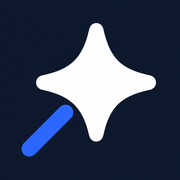
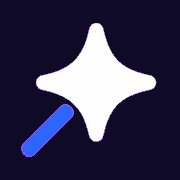
Work in progress

diff --git a/src/styles.css b/src/styles.css
@@ -20,6 +20,7 @@
   --color-popover-foreground: var(--popover-foreground);
   --color-primary: var(--primary);
   --color-primary-foreground: var(--primary-foreground);
+  --color-primary-soft: var(--primary-soft);
   --color-secondary: var(--secondary);
   --color-secondary-foreground: var(--secondary-foreground);
   --color-muted: var(--muted);
@@ -38,25 +39,28 @@
   --color-input: var(--input);
   --color-ring: var(--ring);
   --color-ring-offset-background: var(--background);
+  --color-azure: var(--azure);
+  --color-azure-foreground: var(--azure-foreground);
   --shadow-glow: var(--glow);
 }
 
 :root {
   --radius: 0.75rem;
-  --background: oklch(0.17 0.04 262);
-  --foreground: oklch(0.98 0.005 250);
-  --card: oklch(0.21 0.045 262);
-  --card-foreground: oklch(0.98 0.005 250);
-  --popover: oklch(0.21 0.045 262);
-  --popover-foreground: oklch(0.98 0.005 250);
-  --primary: oklch(0.64 0.2 255);
+  --background: oklch(0.17 0.05 282);
+  --foreground: oklch(0.98 0.006 292);
+  --card: oklch(0.225 0.055 282);
+  --card-foreground: oklch(0.98 0.006 292);
+  --popover: oklch(0.225 0.055 282);
+  --popover-foreground: oklch(0.98 0.006 292);
+  --primary: oklch(0.63 0.22 302);
   --primary-foreground: oklch(0.99 0 0);
-  --secondary: oklch(0.26 0.05 262);
-  --secondary-foreground: oklch(0.98 0.005 250);
-  --muted: oklch(0.25 0.04 262);
-  --muted-foreground: oklch(0.72 0.03 255);
-  --accent: oklch(0.28 0.07 258);
-  --accent-foreground: oklch(0.98 0.005 250);
+  --primary-soft: oklch(0.78 0.13 305);
+  --secondary: oklch(0.46 0.17 252);
+  --secondary-foreground: oklch(0.99 0 0);
+  --muted: oklch(0.30 0.055 278);
+  --muted-foreground: oklch(0.87 0.03 288);
+  --accent: oklch(0.31 0.10 285);
+  --accent-foreground: oklch(0.98 0.006 292);
   --destructive: oklch(0.63 0.22 25);
   --destructive-foreground: oklch(0.99 0 0);
   --success: oklch(0.72 0.17 155);
@@ -65,10 +69,12 @@
   --whatsapp-foreground: oklch(0.99 0 0);
   --line: oklch(0.65 0.19 145);
   --line-foreground: oklch(0.99 0 0);
-  --border: oklch(1 0 0 / 10%);
-  --input: oklch(1 0 0 / 14%);
-  --ring: oklch(0.64 0.2 255);
-  --glow: 0 8px 30px -8px oklch(0.64 0.2 255 / 0.6);
+  --azure: oklch(0.70 0.16 245);
+  --azure-foreground: oklch(0.17 0.05 282);
+  --border: oklch(0.82 0.06 268 / 48%);
+  --input: oklch(0.82 0.06 268 / 54%);
+  --ring: oklch(0.70 0.16 245);
+  --glow: 0 8px 30px -8px oklch(0.63 0.22 302 / 0.6);
 }
 
 @layer base {
@@ -83,4 +89,10 @@
 
 @utility hero-fade {
   background: linear-gradient(180deg, transparent 0%, var(--background) 92%);
+}
+
+@utility hero-aura {
+  background:
+    radial-gradient(60% 55% at 18% 8%, color-mix(in oklab, var(--primary) 34%, transparent), transparent 70%),
+    radial-gradient(55% 50% at 88% 22%, color-mix(in oklab, var(--azure) 30%, transparent), transparent 72%);
 }

diff --git a/src/components/SiteHeader.tsx b/src/components/SiteHeader.tsx
@@ -18,8 +18,8 @@ export function SiteHeader() {
           <img
             src={logoWordmark}
             alt={LOGO_NAME}
-            width={835}
-            height={333}
+            width={790}
+            height={221}
             className="h-7 w-auto sm:h-9"
           />
         </Link>
@@ -29,7 +29,7 @@ export function SiteHeader() {
               key={n.to}
               to={n.to}
               className={`rounded-md px-1.5 py-1.5 text-muted-foreground hover:text-foreground sm:px-3 ${n.to === "/admin" ? "hidden sm:inline" : ""}`}
-              activeProps={{ className: "text-primary" }}
+              activeProps={{ className: "text-primary-soft" }}
             >
               {t(n.label)}
             </Link>
@@ -52,7 +52,7 @@ export function SiteFooter() {
   const { t } = useT();
   return (
     <footer className="mt-20 border-t py-8 text-center text-xs text-muted-foreground">
-      <img src={logoWordmark} alt={LOGO_NAME} width={835} height={333} loading="lazy" className="mx-auto mb-4 h-8 w-auto" />
+      <img src={logoWordmark} alt={LOGO_NAME} width={790} height={221} loading="lazy" className="mx-auto mb-4 h-8 w-auto" />
       {SHOP_NAME} · {t("tagline")}
     </footer>
   );

diff --git a/src/routes/index.tsx b/src/routes/index.tsx
@@ -23,6 +23,7 @@ function Home() {
     <div>
       <section className="relative overflow-hidden">
         <img src={hero} alt="Refurbished phone, laptop and women's sneakers" width={1536} height={864} className="absolute inset-0 h-full w-full object-cover opacity-60" />
+        <div className="hero-aura absolute inset-0" />
         <div className="hero-fade absolute inset-0" />
         <div className="relative mx-auto max-w-6xl px-4 pb-16 pt-28 md:pt-44">
           <p className="mb-3 text-sm font-medium uppercase tracking-widest text-primary">{t("home.kicker")}</p>

diff --git a/roadmap.md b/roadmap.md
@@ -1,0 +1,5 @@
+# Roadmap
+
+- Publish the shop online — waiting for the user's go-ahead
+- Publish the shop online — waiting for the user's go-ahead
+- Thai and Romanian copy review by a native speaker — needs a reviewer
